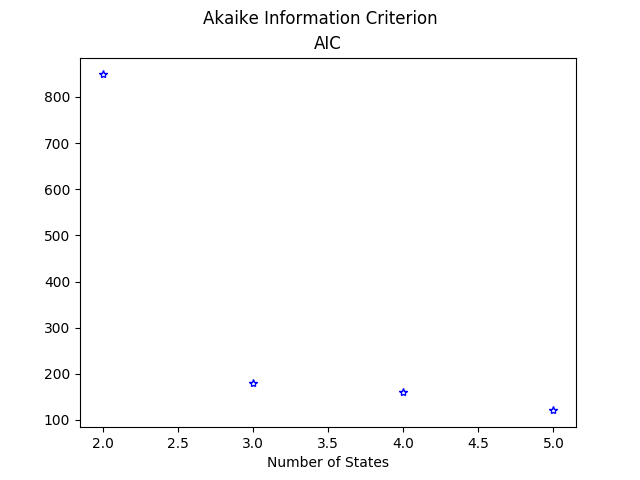
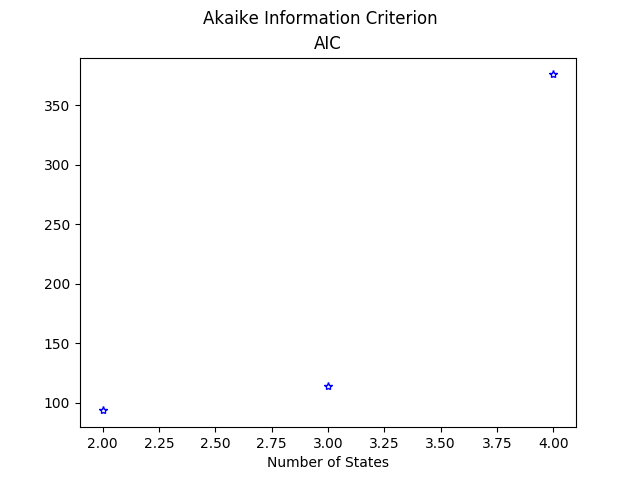
added figure4

diff --git a/Figure4_AIC.py b/Figure4_AIC.py
@@ -22,7 +22,7 @@ T_MAS = 200
 T_2 = 75
 
 state1 = 2
-state2 = 5
+state2 = 4
 states = range(state1,state2+1) 
 reps = 1
 
@@ -47,7 +47,7 @@ scaleGom_2_h1 = []
 AIC_h1 = []
 
 for numStates in states: #a pop with num number of lineages
-    
+    print('numstates', numStates)
     acc_h2 = []
     cell_h2 = []
     bern_h2 = []
@@ -60,7 +60,6 @@ for numStates in states: #a pop with num number of lineages
     LL_h2 = []
     
     for rep in range(reps):
-        print('Rep:', rep)
         MASexperimentTime = T_MAS
         masterLineage = gpt(MASexperimentTime, MASinitCells, MASlocBern, MAScGom, MASscaleGom)
         masterLineage = remove_NaNs(masterLineage)
